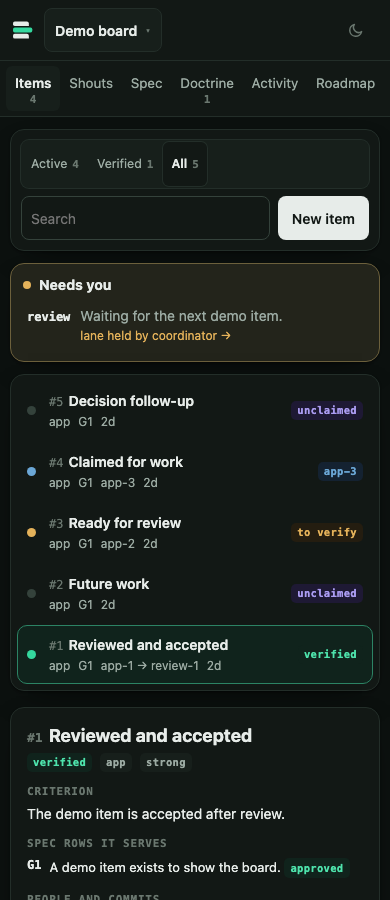
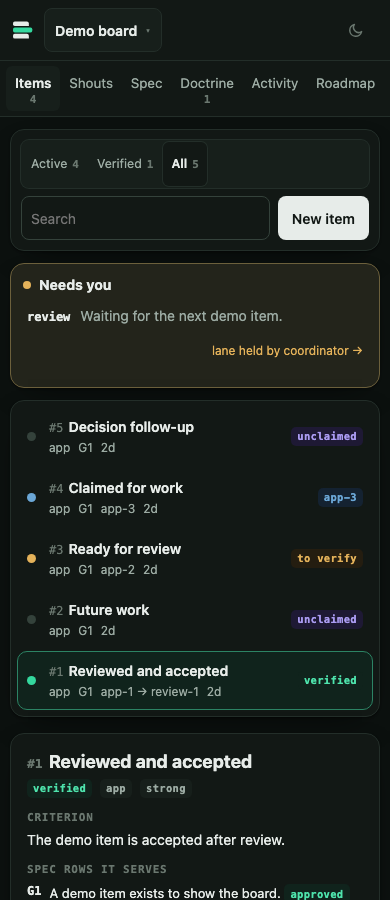
docs(demo): refresh export from accepted view [I13,A10]

diff --git a/docs/demo/index.html b/docs/demo/index.html
@@ -153,7 +153,8 @@ const firstLine = (text) => String(text ?? '').split('\n').map((line) => line.tr
 // The latest verdict is a reject and no accept followed: open again, being reworked, resubmitted, or
 // withdrawn after it.
 const rejected = (i) => i.status !== 'verified' && !!i.verdict && i.verdict.decision === 'REJECT';
-const verdictHtml = (v) => '<div class="verdict ' + (v.decision === 'ACCEPT' ? 'yes' : 'no') + '"><b>' + esc(v.decision) + ' ' + esc(v.reason) + '</b><span class="by">' + esc(v.by) + ' · ' + when(v.at) + ' · at ' + esc(String(v.commit || '').slice(0, 12)) + '</span><div class="note">' + esc(v.note) + '</div></div>';
+/** Render a review note with escaped text and references bound to the selected board. */
+const verdictHtml = (v, titles) => '<div class="verdict ' + (v.decision === 'ACCEPT' ? 'yes' : 'no') + '"><b>' + esc(v.decision) + ' ' + esc(v.reason) + '</b><span class="by">' + esc(v.by) + ' · ' + when(v.at) + ' · at ' + esc(String(v.commit || '').slice(0, 12)) + '</span><div class="note">' + linked(v.note, titles) + '</div></div>';
 const stateOf = (i) => i.status === 'claimed' ? 'building' : i.status === 'submitted' ? 'verify' : i.status === 'verified' ? 'verified' : i.status === 'withdrawn' ? 'withdrawn' : i.verdict && i.verdict.decision === 'REJECT' ? 'back' : 'open';
 const STATES = { building: ['building', 'busy'], verify: ['to verify', 'warn'], back: ['sent back', 'no'], verified: ['verified', 'ok'], open: ['open', ''], withdrawn: ['withdrawn', ''] };
 const chip = (s) => '<span class="chip ' + STATES[s][1] + '">' + STATES[s][0] + '</span>';
@@ -718,13 +719,14 @@ function renderGroup(group) {
   const needs = group.repos.flatMap((repo) => projectNeeds(repo.board).map((row) => ({ ...row, repo })));
   $('group-needs').innerHTML = needs.length ? needs.map((row) => {
     const titles = new Map(row.repo.board.items.map((item) => [String(item.id), item.title]));
-    return '<button class="group-need" data-root="' + esc(row.repo.root) + '" type="button"><b>' + esc(row.repo.name) + '</b><code>' + esc(row.ref) + '</code><span>' + rich(row.text, titles, false) + '</span><em>' + esc(row.what) + (row.at ? ', ' + age(row.at) : '') + ' →</em></button>';
+    const text = rich(row.text, titles).replaceAll('<button class="ref" data-go=', '<button class="ref" data-root="' + esc(row.repo.root) + '" data-go=');
+    return '<div class="group-need"><b>' + esc(row.repo.name) + '</b><code>' + esc(row.ref) + '</code><span>' + text + '</span><button data-root="' + esc(row.repo.root) + '" type="button"><em>' + esc(row.what) + (row.at ? ', ' + age(row.at) : '') + ' →</em></button></div>';
   }).join('') : '<div class="empty">Nothing needs you across this project.</div>';
   const events = group.repos.flatMap((repo) => {
     const titles = new Map(repo.board.items.map((item) => [String(item.id), item.title]));
-    return repo.board.events.map((event) => ({ ...event, repo, title: event.item_id ? titles.get(String(event.item_id)) : null }));
+    return repo.board.events.map((event) => ({ ...event, repo, titles, title: event.item_id ? titles.get(String(event.item_id)) : null }));
   }).sort((a, b) => b.event_at.localeCompare(a.event_at)).slice(0, 80);
-  $('group-activity').innerHTML = events.length ? byDay(events, (event) => event.event_at, (event) => '<div><time>' + clock(event.event_at) + '</time><div class="act"><b class="repo-label">' + esc(event.repo.name) + '</b> <span>' + esc(event.event_by) + ' ' + esc(event.event_kind) + (event.item_id ? ' #' + event.item_id + (event.title ? ' ' + rich(event.title, new Map(), false) : '') : '') + '</span></div></div>') : '<div class="empty">No activity yet.</div>';
+  $('group-activity').innerHTML = events.length ? byDay(events, (event) => event.event_at, (event) => '<div><time>' + clock(event.event_at) + '</time><div class="act"><b class="repo-label">' + esc(event.repo.name) + '</b> <span>' + esc(event.event_by) + ' ' + esc(event.event_kind) + (event.item_id ? ' #' + event.item_id + (event.title ? ' ' + rich(event.title, event.titles).replaceAll('<button class="ref" data-go=', '<button class="ref" data-root="' + esc(event.repo.root) + '" data-go=') : '') : '') + '</span></div></div>') : '<div class="empty">No activity yet.</div>';
 }
 
 /**
@@ -745,6 +747,8 @@ function milestoneItem(entry, p) {
   return {
     label: local ? '#' + entry.id : String(entry.id),
     title: item ? item.title : read ? entry.title : '',
+    root,
+    titles: new Map((root === view.root ? p.items : root ? named[0].items : []).map((i) => [String(i.id), i.title])),
     state: read ? stateOf(read) : null,
     word: entry.status,
     open: item ? { root, id } : null,
@@ -760,10 +764,14 @@ function milestoneItem(entry, p) {
  * title is the row's tooltip. An item that opens is a button; one that cannot says why instead.
  */
 function milestoneRow(row, titles) {
-  const title = row.title ? inline(String(row.title).replace(/\s+/g, ' '), titles, false) : '<span class="muted">' + esc(row.why) + '</span>';
+  const title = row.title ? inline(String(row.title).replace(/\s+/g, ' '), row.titles || titles).replaceAll('<button class="ref" data-go=', '<button class="ref" data-board="' + esc(row.root) + '" data-go=') : '<span class="muted">' + esc(row.why) + '</span>';
   const inner = '<span class="dot' + (row.state ? ' ' + row.state : '') + '"></span><span class="t"><span class="id">' + esc(row.label) + '</span>' + title + '</span>' + (row.state ? chip(row.state) : '<span class="chip">' + esc(row.word) + '</span>');
   if (!row.open) return '<li><div class="milestone-item" title="' + esc(row.title ? row.title + ' (' + row.why + ')' : row.why) + '">' + inner + '</div></li>';
-  return '<li><button class="milestone-item" data-go="item:' + row.open.id + '"' + (row.open.root === view.root ? '' : ' data-board="' + esc(row.open.root) + '"') + ' title="' + esc(row.title) + '" type="button">' + inner + '</button></li>';
+  const attributes = 'class="milestone-item" data-go="item:' + row.open.id + '"' + (row.open.root === view.root ? '' : ' data-board="' + esc(row.open.root) + '"') + ' title="' + esc(row.title) + '"';
+  // A title with its own links needs a separate containing control, never a nested button.
+  return title.includes('class="ref"')
+    ? '<li><div ' + attributes + ' role="button" tabindex="0">' + inner + '</div></li>'
+    : '<li><button ' + attributes + ' type="button">' + inner + '</button></li>';
 }
 
 /**
@@ -778,11 +786,11 @@ function roadmapCards(p, titles) {
     const rows = milestone.items.map((entry) => milestoneItem(entry, p));
     const done = rows.filter((row) => row.state === 'verified').length;
     const name = esc(milestone.name);
-    return '<article class="card-panel milestone"><header><h2>' + name + '</h2>' + (rows.length ? '<span class="milestone-count">' + done + '/' + rows.length + ' done</span>' : '') + '</header>'
+    return '<article class="card-panel milestone"><header><h2>' + linked(milestone.name, titles) + '</h2>' + (rows.length ? '<span class="milestone-count">' + done + '/' + rows.length + ' done</span>' : '') + '</header>'
       + (rows.length
         ? '<svg class="milestone-progress" viewBox="0 0 100 1" preserveAspectRatio="none" role="progressbar" aria-label="' + name + ': ' + done + ' of ' + rows.length + ' done" aria-valuemin="0" aria-valuemax="' + rows.length + '" aria-valuenow="' + done + '"><rect width="' + Math.round((100 * done) / rows.length) + '" height="1"/></svg><ul>' + rows.map((row) => milestoneRow(row, titles)).join('') + '</ul>'
         : '<p class="milestone-empty">No items yet.</p>')
-      + (milestone.note ? '<p class="milestone-note">' + rich(milestone.note, titles, false) + '</p>' : '') + '</article>';
+      + (milestone.note ? '<p class="milestone-note">' + rich(milestone.note, titles) + '</p>' : '') + '</article>';
   }).join('');
 }
 
@@ -826,7 +834,7 @@ function render() {
   ];
   const drafts = p.spec.filter((r) => r.status === 'draft').length;
   $('needs').hidden = !needs.length && !drafts;
-  $('needs').innerHTML = '<div class="head"><i></i>Needs you</div>' + needs.slice(0, 6).map(([target, ref, text, what, at]) => '<button class="ny" data-go="' + esc(target) + '" type="button"><code>' + esc(ref) + '</code><span>' + rich(text, titles, false) + '</span><em>' + esc(what) + (at ? ', ' + age(at) : '') + ' →</em></button>').join('') + (needs.length > 6 ? '<div class="muted more">and ' + (needs.length - 6) + ' more</div>' : '') + (drafts ? '<button class="ny" data-go="tab:spec" type="button"><code>' + drafts + '</code><span>draft spec rows to approve or drop</span><em>review →</em></button>' : '');
+  $('needs').innerHTML = '<div class="head"><i></i>Needs you</div>' + needs.slice(0, 6).map(([target, ref, text, what, at]) => '<div class="ny"><code>' + esc(ref) + '</code><span class="ny-text">' + rich(text, titles) + '</span><button class="ny-open" data-go="' + esc(target) + '" type="button"><em>' + esc(what) + (at ? ', ' + age(at) : '') + ' →</em></button></div>').join('') + (needs.length > 6 ? '<div class="muted more">and ' + (needs.length - 6) + ' more</div>' : '') + (drafts ? '<div class="ny"><code>' + drafts + '</code><span class="ny-text">draft spec rows to approve or drop</span><button class="ny-open" data-go="tab:spec" type="button"><em>review →</em></button></div>' : '');
 
   const lanes = p.lanes;
   const working = lanes.filter((l) => l !== 'coordinator');
@@ -860,11 +868,11 @@ function render() {
     const hold = s === 'open' ? heldLanes.get(i.lane) : null;
     const waits = s === 'open' && i.blockedBy.length ? i.blockedBy : [];
     const gated = waits.length > 0 || !!hold;
-    const pills = (waits.length ? '<span class="gate">' + waits.map((id, index) => '<span class="wait-unit">' + (index ? '' : 'waits on ') + '<button class="ref" data-go="item:' + id + '" type="button">#' + id + '</button></span>').join(', ') + '</span>' : '') + (hold ? '<span class="gate">lane held: ' + esc(hold.hold_reason) + '</span>' : '');
+    const pills = (waits.length ? '<span class="gate">' + waits.map((id, index) => '<span class="wait-unit">' + (index ? '' : 'waits on ') + '<button class="ref" data-go="item:' + id + '" type="button">#' + id + '</button></span>').join(', ') + '</span>' : '') + (hold ? '<span class="gate">lane held: ' + linked(hold.hold_reason, titles) + '</span>' : '');
     const tag = s === 'building' && i.owner ? '<span class="chip busy" title="building, held by ' + esc(i.owner) + '">' + esc(i.owner) + '</span>'
       : s === 'verify' && i.reviewer ? '<span class="chip warn" title="reviewing until ' + esc(when(i.reviewUntil)) + '">' + esc(i.reviewer) + ' reviewing</span>'
       : s === 'open' ? (gated ? '<span class="chip gate">' + (waits.length ? 'gated' : 'lane held') + '</span>' : '<span class="chip free">unclaimed</span>') : chip(s);
-    return '<li class="row' + (view.item === i.id ? ' on' : '') + (gated ? ' gated' : '') + '" data-item="' + i.id + '"><span class="dot ' + s + '"></span><div><div class="t"><span>#' + i.id + '</span>' + rich(i.title, titles) + '</div><div class="meta"><span>' + esc(i.lane) + '</span>' + (i.specs.length ? '<span>' + esc(i.specs.join(', ')) + '</span>' : '') + (who ? '<span>' + esc(who) + '</span>' : '') + pills + '<span>' + age(i.updatedAt) + '</span>' + (rejected(i) ? '<span class="why">' + esc(i.verdict.reason + ': ' + firstLine(i.verdict.note)) + '</span>' : '') + '</div></div>' + tag + '</li>';
+    return '<li class="row' + (view.item === i.id ? ' on' : '') + (gated ? ' gated' : '') + '" data-item="' + i.id + '"><span class="dot ' + s + '"></span><div><div class="t"><span>#' + i.id + '</span>' + rich(i.title, titles) + '</div><div class="meta"><span>' + esc(i.lane) + '</span>' + (i.specs.length ? '<span>' + esc(i.specs.join(', ')) + '</span>' : '') + (who ? '<span>' + esc(who) + '</span>' : '') + pills + '<span>' + age(i.updatedAt) + '</span>' + (rejected(i) ? '<span class="why">' + linked(i.verdict.reason + ': ' + firstLine(i.verdict.note), titles) + '</span>' : '') + '</div></div>' + tag + '</li>';
   }).join('') : '<li class="empty">' + (items.length ? 'No items match.' : snapshot ? 'No items at this event.' : 'No items yet. Add the first one with New item.') + '</li>';
 
   const item = p.items.find((i) => i.id === view.item);
@@ -881,12 +889,12 @@ function render() {
     const back = rejected(item);
     const earlier = back ? item.verdicts.slice(0, -1) : item.verdicts;
     $('detail').innerHTML = '<div class="stack"><div><h2><span>#' + item.id + '</span>' + rich(item.title, titles) + '</h2><div class="meta spaced">' + chip(s) + '<span class="chip">' + esc(item.lane) + '</span><span class="chip">' + esc(item.route) + '</span></div></div>'
-      + (back ? '<div class="sentback"><h3>Sent back' + (s === 'building' ? ', being reworked' : s === 'verify' ? ', resubmitted' : s === 'withdrawn' ? ', then withdrawn' : '') + '</h3>' + verdictHtml(item.verdict) + '</div>' : '')
+      + (back ? '<div class="sentback"><h3>Sent back' + (s === 'building' ? ', being reworked' : s === 'verify' ? ', resubmitted' : s === 'withdrawn' ? ', then withdrawn' : '') + '</h3>' + verdictHtml(item.verdict, titles) + '</div>' : '')
       + (item.criterion ? '<div><h3>Criterion</h3><div class="text">' + rich(item.criterion, titles) + '</div></div>' : '')
-      + (cited.length ? '<div><h3>Spec rows it serves</h3>' + cited.map((r) => '<div class="rowref"><code>' + esc(r.id) + '</code><div>' + esc(r.text) + ' <span class="chip ' + tone(r.status) + '">' + esc(r.status) + '</span></div></div>').join('') + '</div>' : '')
+      + (cited.length ? '<div><h3>Spec rows it serves</h3>' + cited.map((r) => '<div class="rowref"><code>' + esc(r.id) + '</code><div>' + linked(r.text, titles) + ' <span class="chip ' + tone(r.status) + '">' + esc(r.status) + '</span></div></div>').join('') + '</div>' : '')
       + (item.brief ? '<div><h3>Brief</h3><div class="text muted">' + rich(item.brief, titles) + '</div></div>' : '')
       + '<div><h3>People and commits</h3><dl class="kv">' + (item.owner && s === 'building' ? '<dt>holding</dt><dd>' + esc(item.owner) + '</dd>' : '') + (item.builtBy ? '<dt>built by</dt><dd>' + esc(item.builtBy) + '</dd>' : '') + (item.verifiedBy ? '<dt>verified by</dt><dd>' + esc(item.verifiedBy) + '</dd>' : '') + (item.commit ? '<dt>commit</dt><dd><code>' + esc(item.commit.slice(0, 12)) + '</code></dd>' : '') + (item.merged ? '<dt>merged</dt><dd><code>' + esc(item.merged.slice(0, 12)) + '</code></dd>' : '') + (item.blockedBy.length ? '<dt>waits on</dt><dd class="waits-on">' + item.blockedBy.map((id) => '<span class="wait-unit"><button class="ref" data-go="item:' + id + '" type="button">#' + id + '</button></span>').join(', ') + '</dd>' : '') + '</dl></div>'
-      + (back && !earlier.length ? '' : '<div><h3>' + (back ? 'Earlier verdicts' : 'Verdicts') + '</h3>' + (earlier.length ? earlier.map(verdictHtml).join('') : '<div class="muted">None yet.</div>') + '</div>')
+      + (back && !earlier.length ? '' : '<div><h3>' + (back ? 'Earlier verdicts' : 'Verdicts') + '</h3>' + (earlier.length ? earlier.map((v) => verdictHtml(v, titles)).join('') : '<div class="muted">None yet.</div>') + '</div>')
       + '<div><h3>History</h3>' + timeline(item) + '</div>'
       + '<div class="links"><button data-shout="' + esc(item.lane) + '" data-about="' + item.id + '" type="button">Shout the ' + esc(item.lane) + ' lane about #' + item.id + '</button><button data-new type="button">New item</button></div></div>';
   }
@@ -915,10 +923,10 @@ function render() {
   $('agents').innerHTML = p.agents.length ? p.agents.map((a) => {
     const mine = holding(a);
     return '<div class="agent"><div><b title="' + esc(a.agent_path) + '">' + esc(a.agent_id) + '</b><span class="muted">' + esc(a.agent_lane) + ' · ' + esc(a.agent_route) + '</span>' + (a.lastMoveAt ? '<time data-ago="' + esc(a.lastMoveAt) + '" title="last moved ' + when(a.lastMoveAt) + '">' + ago(a.lastMoveAt) + '</time>' : '') + '</div>'
-      + (mine.length ? mine.map((i) => '<button data-go="item:' + i.id + '" type="button"><span>#' + i.id + ' ' + rich(i.title, titles, false) + '</span>' + (i.reviewer === a.agent_id ? '<span class="chip warn">reviewing</span>' : chip(stateOf(i))) + '</button>').join('') : '<small>idle</small>') + '</div>';
+      + (mine.length ? mine.map((i) => '<div class="agent-work" data-item="' + i.id + '"><span>#' + i.id + ' ' + rich(i.title, titles) + '</span>' + (i.reviewer === a.agent_id ? '<span class="chip warn">reviewing</span>' : chip(stateOf(i))) + '</div>').join('') : '<small>idle</small>') + '</div>';
   }).join('') : '<div class="empty">No agents yet.</div>';
   const held = new Map(p.holds.map((h) => [h.hold_lane, h]));
-  $('lanes').innerHTML = working.map((l) => '<div class="lane"><span><b>' + esc(l) + '</b> ' + (held.has(l) ? '<span class="chip no">held by ' + esc(held.get(l).hold_by) + '</span> <span class="muted">' + esc(held.get(l).hold_reason) + '</span>' : '<span class="chip ok">open</span>') + '</span>' + (held.has(l) ? '<button class="ghost" data-release="' + esc(l) + '" type="button">Release</button>' : '') + '</div>').join('');
+  $('lanes').innerHTML = working.map((l) => '<div class="lane"><span><b>' + esc(l) + '</b> ' + (held.has(l) ? '<span class="chip no">held by ' + esc(held.get(l).hold_by) + '</span> <span class="muted">' + linked(held.get(l).hold_reason, titles) + '</span>' : '<span class="chip ok">open</span>') + '</span>' + (held.has(l) ? '<button class="ghost" data-release="' + esc(l) + '" type="button">Release</button>' : '') + '</div>').join('');
 
   for (const kind of ['spec', 'doctrine']) {
     const rows = kind === 'spec' ? p.spec : p.practice;
@@ -932,23 +940,23 @@ function render() {
       const head = r.section !== section ? '<h4>' + esc(r.section) + '</h4>' : '';
       section = r.section;
       const declined = kind === 'doctrine' && r.status === 'wont';
-      const text = declined ? '<s>' + esc(r.standardText || r.text) + '</s>' : esc(r.text);
-      const reason = declined && r.reason ? '<small class="rule-reason">Reason: ' + esc(r.reason) + '</small>' : '';
+      const text = declined ? '<s>' + linked(r.standardText || r.text, titles) + '</s>' : linked(r.text, titles);
+      const reason = declined && r.reason ? '<small class="rule-reason">Reason: ' + linked(r.reason, titles) + '</small>' : '';
       const source = kind === 'doctrine' ? '<small class="rule-source">' + esc(ruleSource(r)) + '</small>' : '';
       return head + '<div class="srow' + (view.row[kind] === r.id ? ' on' : '') + '" data-row="' + kind + ':' + esc(r.id) + '"><code>' + esc(r.id) + '</code><span><span class="chip ' + tone(r.status) + '">' + esc(r.status) + '</span>' + source + '</span><span>' + text + reason + '</span></div>';
     }).join('') : '<div class="empty">' + (rows.length ? 'No rows match.' : kind === 'spec' ? 'No spec rows yet. Each requirement is one row in SPEC.md, such as G1 [draft, must] and a line; write them, or ask an agent to, and they show up here.' : 'No practice rows yet: they live in PRACTICE.md.') + '</div>';
     const row = rows.find((r) => r.id === view.row[kind]);
     const citing = row ? p.items.filter((i) => i.specs.includes(row.id)) : [];
     const declined = kind === 'doctrine' && row && row.status === 'wont';
-    const text = row ? declined ? '<s>' + esc(row.standardText || row.text) + '</s>' : esc(row.text) : '';
+    const text = row ? declined ? '<s>' + linked(row.standardText || row.text, titles) + '</s>' : linked(row.text, titles) : '';
     const source = kind === 'doctrine' && row ? '<span class="chip">' + esc(ruleSource(row)) + '</span>' : '';
-    const reason = declined && row.reason ? '<dt>reason</dt><dd>' + esc(row.reason) + '</dd>' : '';
+    const reason = declined && row.reason ? '<dt>reason</dt><dd>' + linked(row.reason, titles) + '</dd>' : '';
     const home = kind === 'doctrine' && row && row.origin === 'standard' ? 'Standard rules come with Pullboard; override or decline one in PRACTICE.md.' : 'Rows change in ' + (kind === 'spec' ? 'SPEC.md' : 'PRACTICE.md') + ', and only you approve them.';
-    $(kind + '-detail').innerHTML = row ? '<div class="stack tight"><h2><span>' + esc(row.id) + '</span>' + text + '</h2><div class="meta"><span class="chip ' + tone(row.status) + '">' + esc(row.status) + '</span>' + (row.tier ? '<span class="chip">' + esc(row.tier) + '</span>' : '') + source + '</div><dl class="kv"><dt>section</dt><dd>' + esc(row.section) + '</dd>' + reason + (row.gate ? '<dt>gate</dt><dd>' + esc(row.gate) + '</dd>' : '') + (row.serves && row.serves.length ? '<dt>serves</dt><dd>' + esc(row.serves.join(', ')) + '</dd>' : '') + '</dl><div><h3>Items that cite it</h3>' + (citing.length ? '<div class="links">' + citing.map((i) => '<button data-go="item:' + i.id + '" type="button">#' + i.id + ' ' + rich(i.title, titles, false) + '</button>').join('') + '</div>' : '<div class="muted">None yet.</div>') + '</div><div class="muted">' + home + '</div></div>' : '<div class="empty">Pick a row to see it, and the items that cite it.</div>';
+    $(kind + '-detail').innerHTML = row ? '<div class="stack tight"><h2><span>' + esc(row.id) + '</span>' + text + '</h2><div class="meta"><span class="chip ' + tone(row.status) + '">' + esc(row.status) + '</span>' + (row.tier ? '<span class="chip">' + esc(row.tier) + '</span>' : '') + source + '</div><dl class="kv"><dt>section</dt><dd>' + esc(row.section) + '</dd>' + reason + (row.gate ? '<dt>gate</dt><dd>' + esc(row.gate) + '</dd>' : '') + (row.serves && row.serves.length ? '<dt>serves</dt><dd>' + esc(row.serves.join(', ')) + '</dd>' : '') + '</dl><div><h3>Items that cite it</h3>' + (citing.length ? '<div class="links">' + citing.map((i) => '<div class="links-item" data-item="' + i.id + '"><span>#' + i.id + ' ' + rich(i.title, titles) + '</span></div>').join('') + '</div>' : '<div class="muted">None yet.</div>') + '</div><div class="muted">' + home + '</div></div>' : '<div class="empty">Pick a row to see it, and the items that cite it.</div>';
   }
 
   if (keep('pb.flow') !== 'hidden') $('flow').innerHTML = flowSvg(p);
-  $('activity').innerHTML = p.events.length ? byDay(p.events, (e) => e.event_at, (e) => '<div><time>' + clock(e.event_at) + '</time><div class="act"><b>' + esc(e.event_by) + '</b> ' + esc(e.event_kind) + (e.item_id ? ' <button class="ref" data-go="item:' + e.item_id + '" type="button">#' + e.item_id + '</button>' + (titles.has(String(e.item_id)) ? ' <span class="what">' + esc(titles.get(String(e.item_id))) + '</span>' : '') : '') + '</div></div>') : '<div class="empty">No activity yet.</div>';
+  $('activity').innerHTML = p.events.length ? byDay(p.events, (e) => e.event_at, (e) => '<div><time>' + clock(e.event_at) + '</time><div class="act"><b>' + esc(e.event_by) + '</b> ' + esc(e.event_kind) + (e.item_id ? ' <button class="ref" data-go="item:' + e.item_id + '" type="button">#' + e.item_id + '</button>' + (titles.has(String(e.item_id)) ? ' <span class="what">' + rich(titles.get(String(e.item_id)), titles) + '</span>' : '') : '') + '</div></div>') : '<div class="empty">No activity yet.</div>';
   showTab();
 }
 
@@ -1048,7 +1056,9 @@ function answer(id) {
   view.answering = ask ? { root: view.root, id: ask.shout_id } : null;
   $('answering').hidden = !ask;
   $('answering-who').textContent = ask ? ask.shout_from : '';
-  $('answering-q').textContent = ask ? ask.shout_text : '';
+  const question = ask ? linked(ask.shout_text, new Map(data.project.items.map((i) => [String(i.id), i.title]))) : '';
+  if (question.includes('<button class="ref"')) $('answering-q').innerHTML = question;
+  else $('answering-q').textContent = ask ? ask.shout_text : '';
   if (ask) $('shout-to').value = ask.shout_from;
   $('shout-to').disabled = Boolean(ask);
   $('shout-send').textContent = ask ? 'Answer' : 'Shout';
@@ -1201,16 +1211,14 @@ function fold(open) {
   $('proj-switch').setAttribute('aria-expanded', String(open));
 }
 
-/**
- * Show another project: mark it at once, dim the old one's panes until its board arrives. Given an
- * item, its board opens on that item; with record false the history entry stays as it is, for a
- * move that came from the entry.
- */
-function switchTo(root, item = null, record = true) {
+/** Show another project and its item; history restores keep the tab their entry named. */
+function switchTo(root, target = null, record = true) {
   answer(null);
   view.root = root;
-  view.item = item;
+  const item = typeof target === 'number' ? target : /^item:(\d+)$/.exec(target || '');
+  view.item = typeof item === 'number' ? item : item ? Number(item[1]) : null;
   view.adding = false;
+  if (record && view.item !== null) { view.tab = 'items'; keep('pb.tab', view.tab); }
   keep('pb.project', root);
   if (record) address(false);
   fold(false);
@@ -1220,7 +1228,7 @@ function switchTo(root, item = null, record = true) {
   document.body.classList.add('switching');
   refresh().catch(() => { $('live').textContent = 'offline: is pullboard view still running?'; }).finally(() => {
     document.body.classList.remove('switching');
-    if (item !== null && view.root === root && view.tab === 'items') reveal();
+    if (view.item !== null && view.root === root && view.tab === 'items') reveal();
   });
 }
 
@@ -1230,7 +1238,7 @@ document.addEventListener('click', (event) => {
   if (!t) return;
   if (t.id === 'proj-switch') { fold(!$('side').classList.contains('open')); return; }
   if (t.id === 'console') { t.hidden = true; return; }
-  if (t.dataset.root) switchTo(t.dataset.root);
+  if (t.dataset.root) switchTo(t.dataset.root, t.dataset.go || '');
   else if (t.dataset.tab) { openTab(t.dataset.tab); showTab(); }
   else if (t.dataset.go) go(t.dataset.go, t.dataset.board);
   else if (t.dataset.item) pick(Number(t.dataset.item));
@@ -1241,6 +1249,14 @@ document.addEventListener('click', (event) => {
   else if (t.dataset.release) act('release', { lane: t.dataset.release }, t);
   else if (t.dataset.shout) { answer(null); $('shout-to').value = t.dataset.shout; $('shout-text').value = '#' + t.dataset.about + ': '; openTab('shouts'); showTab(); $('shout-text').focus(); }
   else if (t.dataset.new !== undefined) { view.adding = true; render(); $('add-title').focus(); }
+});
+/** Let a Roadmap row with independent inline links keep its keyboard button behavior. */
+document.addEventListener('keydown', (event) => {
+  if (!['Enter', ' '].includes(event.key)) return;
+  const row = event.target.closest('.milestone-item[role="button"]');
+  if (event.target !== row) return;
+  event.preventDefault();
+  go(row.dataset.go, row.dataset.board || view.root);
 });
 // The form covers the picked item rather than dropping it, so Cancel brings it back.
 $('new-item').addEventListener('click', () => { view.adding = true; render(); $('add-title').focus(); });

diff --git a/docs/demo/view.css b/docs/demo/view.css
@@ -51,12 +51,13 @@ button, input, select, textarea { font: inherit; color: inherit; }
 .group-view { display: grid; gap: 14px; max-width: 1000px; }
 .group-panel { padding: 14px 16px; }
 .group-panel h2 { margin: 0 0 10px; font-size: 17px; }
-.group-need { display: grid; grid-template-columns: minmax(90px, auto) auto minmax(0, 1fr) auto; align-items: baseline; gap: 5px 10px; width: 100%; padding: 9px 0; text-align: left; border: 0; border-top: 1px solid var(--line); background: none; cursor: pointer; }
+.group-need { display: grid; grid-template-columns: minmax(90px, auto) auto minmax(0, 1fr) auto; align-items: baseline; gap: 5px 10px; width: 100%; padding: 9px 0; text-align: left; border: 0; border-top: 1px solid var(--line); background: none; }
 .group-need:hover { background: var(--surface-2); }
 .group-need > b { color: var(--ink-muted); }
 .group-need > code { color: var(--accent-strong); }
 .group-need > span { overflow-wrap: anywhere; }
-.group-need > em { color: var(--ink-faint); font-size: 12px; font-style: normal; }
+.group-need > button { min-height: 44px; border: 0; padding: 0; background: none; cursor: pointer; text-align: right; }
+.group-need > button em { color: var(--ink-faint); font-size: 12px; font-style: normal; }
 .repo-label { color: var(--ink-muted); }
 .need { min-width: 20px; padding: 1px 6px; border-radius: 999px; background: var(--warn-soft); color: var(--warn); font: 700 11.5px/1.5 var(--mono); text-align: center; }
 .products { padding-top: 6px; }
@@ -97,8 +98,8 @@ main { padding: 16px 18px 28px; }
 .milestone-progress rect { fill: var(--accent); }
 .milestone ul { display: grid; gap: 2px; margin: 0 -9px; padding: 0; list-style: none; }
 .milestone-item { display: grid; grid-template-columns: 12px minmax(0, 1fr) auto; gap: 10px; align-items: center; width: 100%; min-height: 44px; padding: 0 9px; border: 1px solid transparent; border-radius: 10px; background: none; text-align: left; }
-button.milestone-item { cursor: pointer; }
-button.milestone-item:hover { background: var(--surface-2); }
+.milestone-item[data-go] { cursor: pointer; }
+.milestone-item[data-go]:hover { background: var(--surface-2); }
 .milestone-item .t { min-width: 0; overflow: hidden; text-overflow: ellipsis; white-space: nowrap; }
 .milestone-item .t code { white-space: nowrap; }
 .milestone-item .id { margin-right: 6px; color: var(--ink-faint); font: 500 12px var(--mono); }
@@ -118,13 +119,13 @@ button.milestone-item:hover { background: var(--surface-2); }
   main { padding: 12px 10px 24px; }
   .two, .two.narrow { grid-template-columns: minmax(0, 1fr); }
   .group-need { grid-template-columns: minmax(80px, auto) auto minmax(0, 1fr); }
-  .group-need > em { grid-column: 3; }
+  .group-need > button { grid-column: 3; }
 }
 @media (width < 480px) {
   .group-need { grid-template-columns: minmax(0, 1fr) auto; gap: 3px 8px; }
   .group-need > b { grid-column: 1; }
   .group-need > code { grid-column: 2; }
-  .group-need > span, .group-need > em { grid-column: 1 / -1; }
+  .group-need > span, .group-need > button { grid-column: 1 / -1; }
   .tabs { flex: 1; display: grid; grid-auto-flow: column; grid-auto-columns: auto; gap: 0; }
   .tab { display: grid; grid-template-rows: auto 13px; justify-items: center; align-content: center; padding: 7px 2px 5px; font-size: 13.5px; }
   .tab b { margin: 0; line-height: 13px; }
@@ -145,12 +146,13 @@ input:disabled { background: var(--surface-2); color: var(--ink-muted); }
 .needs-you .head.quiet { color: var(--ink-muted); font-weight: 600; }
 .needs-you .ask + .head.quiet { margin-top: 12px; }
 .needs-you .more { padding: 2px 4px; }
-.ny { display: grid; grid-template-columns: auto minmax(5em, 1fr) minmax(0, max-content); gap: 10px; align-items: baseline; text-align: left; border: 0; background: none; padding: 6px 4px; border-radius: 8px; cursor: pointer; width: 100%; }
+.ny { display: grid; grid-template-columns: auto minmax(5em, 1fr) minmax(0, max-content); gap: 10px; align-items: baseline; text-align: left; border: 0; background: none; padding: 6px 4px; border-radius: 8px; width: 100%; min-height: 44px; }
 .ny:hover { background: color-mix(in srgb, var(--warn) 10%, var(--surface)); }
 .ny code { font: 600 12px var(--mono); }
-.ny span { overflow: hidden; text-overflow: ellipsis; white-space: nowrap; color: var(--ink-muted); }
+.ny .ny-text { overflow: hidden; text-overflow: ellipsis; white-space: nowrap; color: var(--ink-muted); }
+.ny .ny-open { min-height: 44px; border: 0; padding: 0; background: none; color: var(--warn); cursor: pointer; text-align: right; }
 .ny em { font-style: normal; color: var(--warn); font-size: 12px; white-space: nowrap; overflow: hidden; text-overflow: ellipsis; }
-@media (width < 480px) { .ny { grid-template-columns: auto minmax(0, 1fr); row-gap: 1px; } .ny em { grid-column: 2; } }
+@media (width < 480px) { .ny { grid-template-columns: auto minmax(0, 1fr); row-gap: 1px; } .ny .ny-open { grid-column: 2; } }
 .ask { display: grid; grid-template-columns: minmax(0, 1fr) auto; gap: 2px 12px; align-items: center; padding: 6px 4px; }
 .ask > p { grid-column: 1; margin: 0; overflow-wrap: anywhere; }
 .ask small { color: var(--ink-muted); }
@@ -232,7 +234,7 @@ input:disabled { background: var(--surface-2); color: var(--ink-muted); }
 .rowref { display: grid; grid-template-columns: auto minmax(0, 1fr); gap: 8px; font-size: 13px; padding: 3px 0; }
 .rowref code { font-weight: 600; }
 .links { display: flex; flex-wrap: wrap; gap: 6px; }
-.links button { border: 1px solid var(--line); background: var(--surface-2); border-radius: 6px; padding: 3px 9px; cursor: pointer; font-size: 12.5px; }
+.links-item { border: 1px solid var(--line); background: var(--surface-2); border-radius: 6px; padding: 3px 9px; cursor: pointer; font-size: 12.5px; min-height: 44px; display: flex; align-items: center; }
 
 .panel-form { display: grid; gap: 10px; }
 .panel-form label, .inline label { display: grid; gap: 4px; font-size: 12px; color: var(--ink-muted); }
@@ -248,7 +250,7 @@ input:disabled { background: var(--surface-2); color: var(--ink-muted); }
 .feed > div:first-child, .feed > .day + div { border-top: 0; }
 .feed .day { margin: 0; padding: 12px 0 4px; font: 600 11px/1 var(--mono); letter-spacing: .07em; text-transform: uppercase; color: var(--ink-faint); }
 .feed .day:first-child { padding-top: 6px; }
-.feed button.ref, .ask button.ref, .detail button.ref { border: 0; background: none; padding: 0; color: var(--accent-strong); cursor: pointer; text-decoration: underline; text-underline-offset: 2px; display: inline; min-height: 0; vertical-align: baseline; line-height: inherit; font: inherit; }
+button.ref { width: auto; min-height: 0; border: 0; border-radius: 0; background: none; padding: 0; color: var(--accent-strong); cursor: pointer; text-decoration: underline; text-underline-offset: 2px; display: inline; vertical-align: baseline; line-height: inherit; font: inherit; }
 code.inline { padding: 0 3px; border-radius: 3px; background: color-mix(in srgb, var(--ink) 8%, var(--surface)); font: .92em var(--mono); white-space: break-spaces; }
 .code { display: block; margin: 6px 0 2px; padding: 6px 0; border: 1px solid var(--line); border-radius: 8px; background: var(--surface-2); font: 12px/1.55 var(--mono); white-space: pre; overflow-x: auto; overflow-wrap: normal; }
 .code > span { display: block; padding-right: 12px; }
@@ -263,9 +265,9 @@ code.inline { padding: 0 3px; border-radius: 3px; background: color-mix(in srgb,
 .agent > div { display: flex; gap: 8px; align-items: baseline; min-width: 0; }
 .agent > div > .muted { min-width: 0; overflow: hidden; text-overflow: ellipsis; white-space: nowrap; }
 .agent time { margin-left: auto; color: var(--ink-faint); font: 12px var(--mono); }
-.agent button { display: grid; grid-template-columns: minmax(0, 1fr) auto; gap: 8px; align-items: center; width: 100%; border: 0; background: none; padding: 2px 0; text-align: left; cursor: pointer; }
-.agent button > span:first-child { overflow: hidden; text-overflow: ellipsis; white-space: nowrap; }
-.agent button:hover > span:first-child { color: var(--accent-strong); text-decoration: underline; text-underline-offset: 2px; }
+.agent-work { display: grid; grid-template-columns: minmax(0, 1fr) auto; gap: 8px; align-items: center; width: 100%; border: 0; background: none; padding: 2px 0; text-align: left; cursor: pointer; }
+.agent-work > span:first-child { overflow: hidden; text-overflow: ellipsis; white-space: nowrap; }
+.agent-work:hover > span:first-child { color: var(--accent-strong); text-decoration: underline; text-underline-offset: 2px; }
 .lane { display: flex; justify-content: space-between; gap: 8px; align-items: center; padding: 6px 0; border-top: 1px solid var(--line); font-size: 13px; }
 .lane:first-child { border-top: 0; }
 .rows { padding: 4px 10px 10px; }
